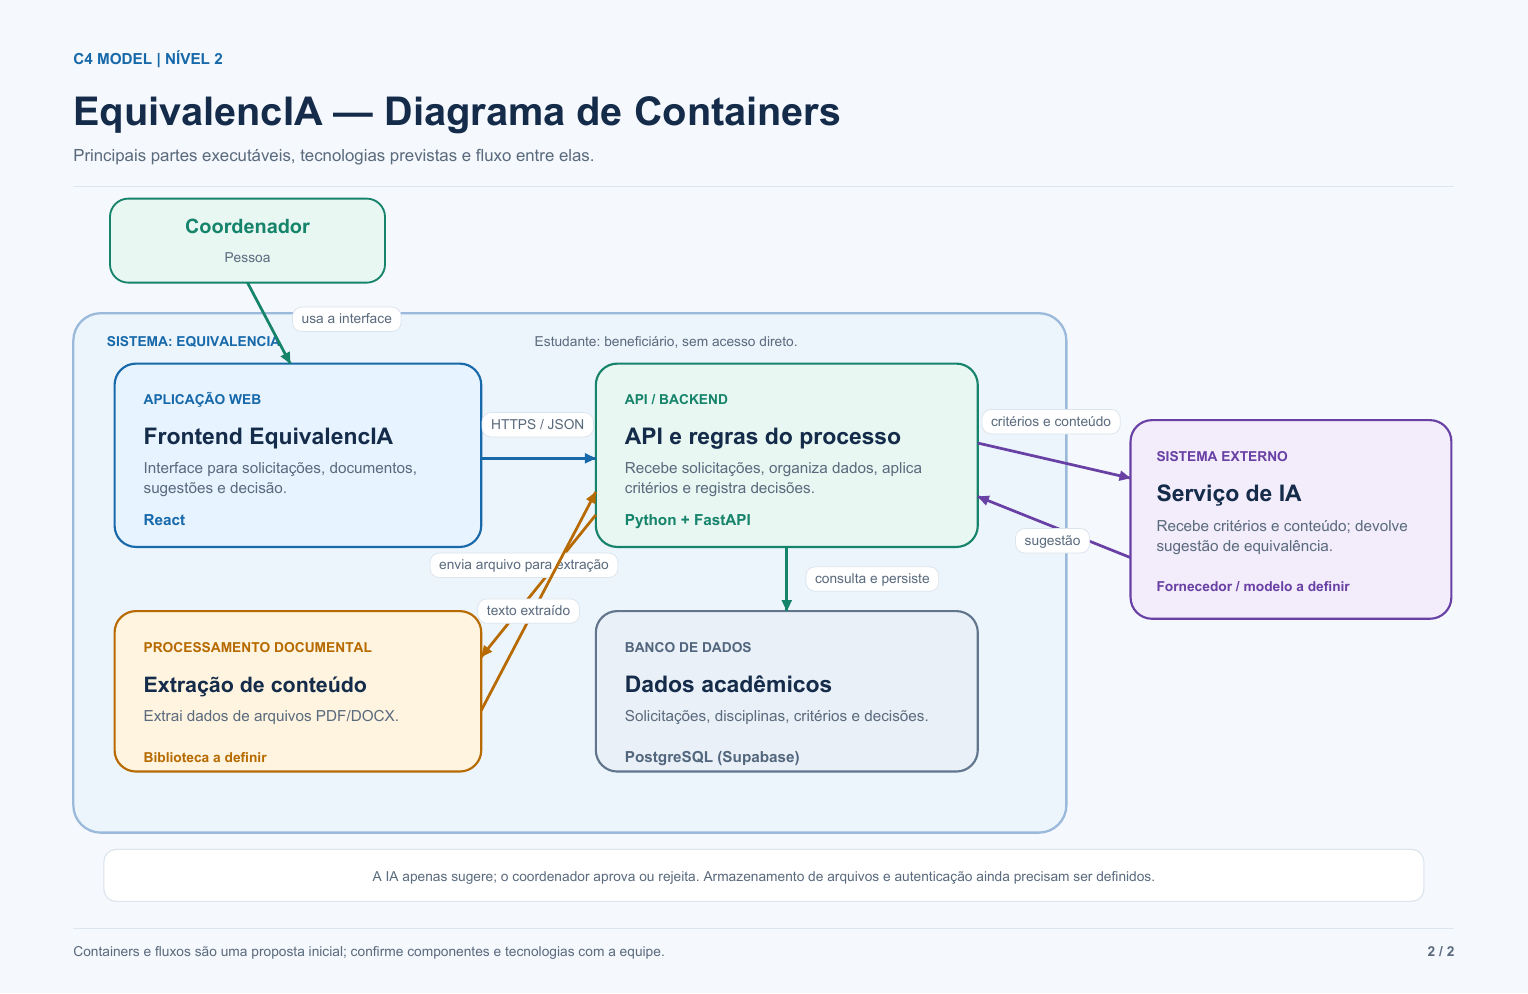
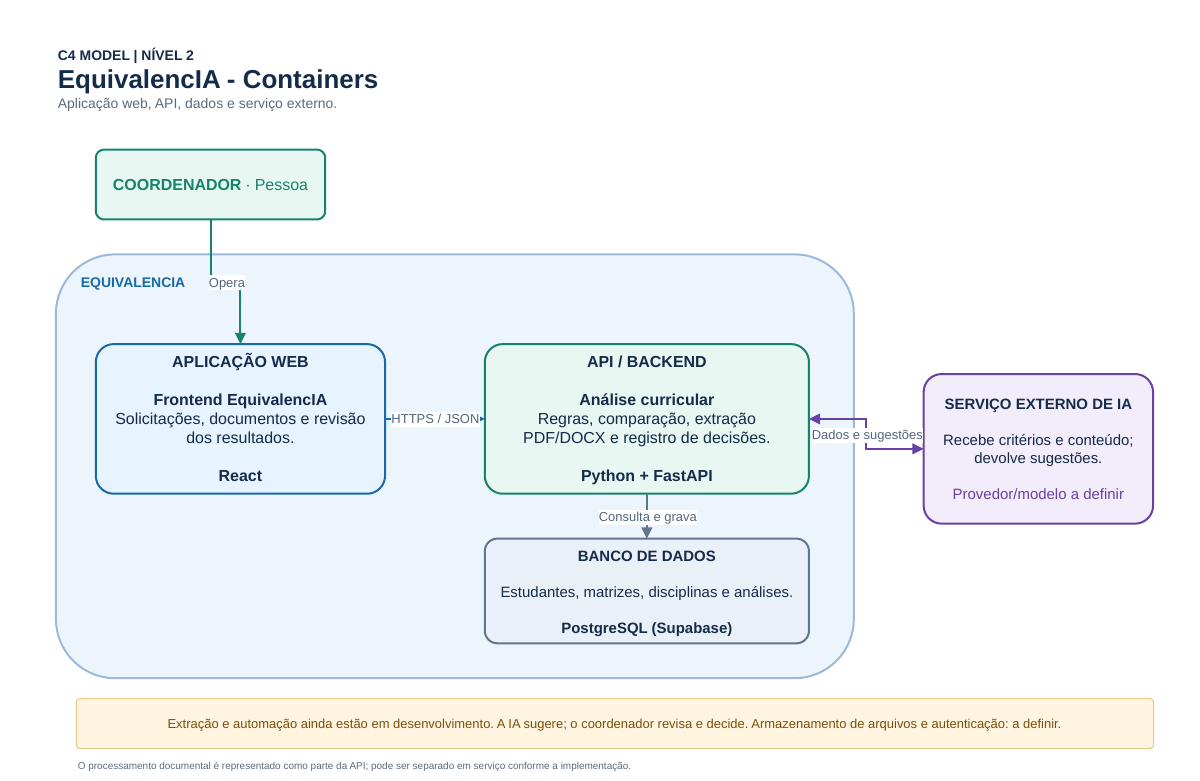
Deployed 04f2987 with MkDocs version: 1.6.1

Changed region(s): [[0.0308, 0.0307, 0.9867, 0.9834], [0.0617, 0.8297, 0.0925, 0.8604]]

diff --git a/index.html b/index.html
@@ -482,7 +482,8 @@
 <h2 id="diagrama-c4-nivel-2-containers">Diagrama C4 — Nível 2: Containers</h2>
 <p>A proposta técnica organiza o portal web em React, uma API em Python com FastAPI, processamento de PDF/DOCX e PostgreSQL hospedado no Supabase. A integração com serviço de IA aparece como proposta técnica a definir; o material de requisitos informa que o processamento automatizado ainda está em desenvolvimento. Qualquer sugestão deve ser revisada pelo responsável.</p>
 <p><img alt="Diagrama C4 de containers do EquivalencIA" src="assets/c4-containers.png" /></p>
-<p><a href="assets/EquivalencIA_C4_Niveis_1_e_2.pdf">Baixar os diagramas C4 em PDF</a></p>
+<p><a href="assets/EquivalencIA_C4_Simplificado.pdf">Baixar os diagramas C4 em PDF</a><br />
+<a href="assets/EquivalencIA_C4_Simplificado.drawio">Abrir/baixar o arquivo editável do Draw.io</a></p>
 <h2 id="tecnologias-previstas">Tecnologias previstas</h2>
 <table>
 <thead>
